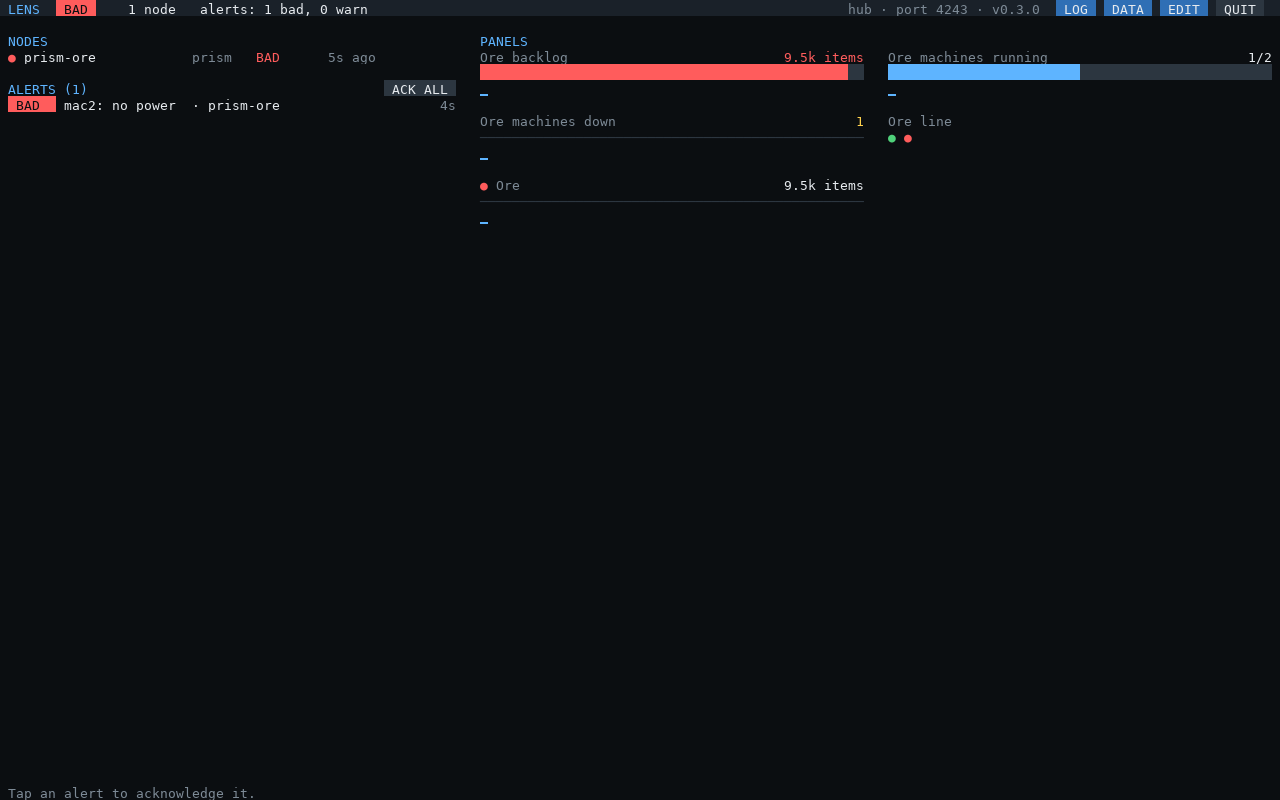
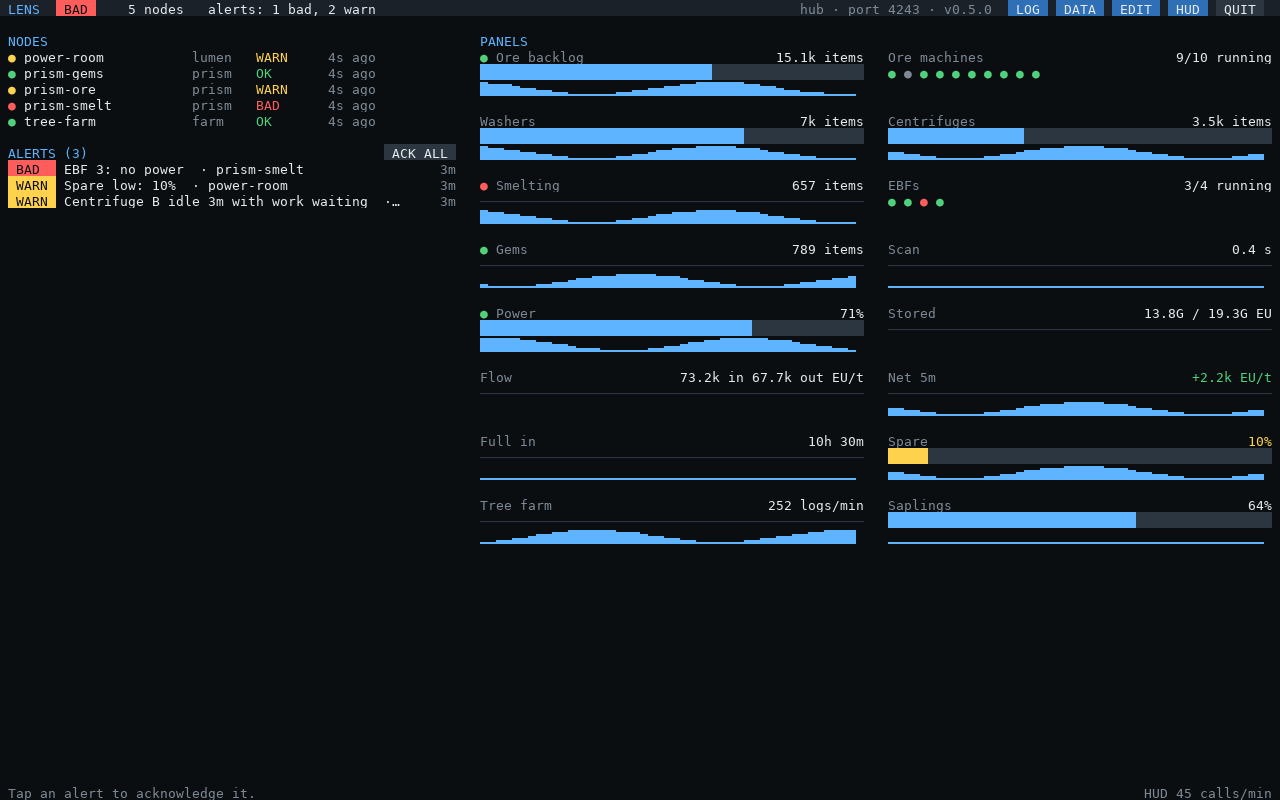
README images from a busy base (test_showcase); keep a HUD block's dots = "left" from lens-hub.cfg
- test_showcase.lua: three PRISM routers, a LUMEN power room and a tree farm
  (your own program) reporting to lens-hub, with readings that drift so the
  sparklines have a shape: a full dashboard with three live alerts, and a HUD
  block with bars, a dot per machine before the label, and alerts.
  make docs-images copies them to dashboard.png and a new hud.png (the
  README's HUD image).
- Fixed: a block's dots = "left" in lens-hub.cfg was dropped when the hub
  made the default HUD (Huds:defaultSettings), so dots stayed on the right
  until the block was changed in the HUD editor. test_showcase checks it.

diff --git a/tests/README.md b/tests/README.md
@@ -29,6 +29,7 @@ Pure modules are tested on their own; features end to end, through `lens-hub` on
 | `test_elements.lua` | What a view can show, through `lens-hub`: state dots, several values in one line, `when`, on the dashboard, in the HUD and in the view editor (tier 2 too) |
 | `test_pages.lua` | The dashboard's pages and the alert log through `lens-hub`: + PAGE named on the keyboard, panels per page, tabs, deleting a page, LOG now and earlier, a 3 × 4 screen |
 | `test_examples.lua` | Every view in `docs/examples.md` as a panel in `lens-hub`, against a PRISM ore line and a LUMEN power room: each shows what the doc says |
+| `test_showcase.lua` | A busy base for the README's images (`make docs-images`): three PRISM routers, LUMEN and your own program, a full dashboard with live alerts, and a HUD block whose `dots = "left"` comes from `lens-hub.cfg` |
 | `test_data.lua` | The DATA page through `lens-hub`: metrics, series, filters, functions, SAVE AS PANEL, ADD TO MY HUD, counters as rates, `editors`, paging, narrow screens |
 | `test_discover.lua` | `lens-discover`: listing, the report file, basics, filtering, `--widgets`, `--events`, `--glasses-test` |
 | `test_setup.lua` | `lens-setup` with scripted answers: finding a PRISM router, its panels and HUD line (as blocks; an old one-corner hud rewritten), the file (loads, comments, `lens-hub` runs it), `.shrc`, re-runs keeping edits, PRISM's port refused, no agents, no network card, no glasses, cancelling, a broken file |

diff --git a/README.md b/README.md
@@ -23,7 +23,7 @@ them, notices when one goes quiet, and shows the base at a glance. Agents today:
   previewed as you type); **DATA** shows everything the agents send and builds queries by tapping.
 - **AR glasses HUD** (OC Glasses): blocks of bars, text lines and the newest alerts, placed anywhere in your
   view. One Glasses Terminal per player gives each their own HUD, changed from the dashboard.
-  ![HUD](docs/images/hud-alerts.png)
+  ![HUD](docs/images/hud.png)
 - **Stale detection**: an agent that stops reporting (crashed, unloaded chunk, out of range) raises an alert.
 - **Queries and rules**: Prometheus-style queries (`sum(prism_machine_state{node="prism-ore", state="running"})`)
   for panels, HUD bars and the hub's own alerts, including ones across systems.

diff --git a/CHANGELOG.md b/CHANGELOG.md
@@ -5,6 +5,10 @@ versions follow [Semantic Versioning](https://semver.org/).
 
 ## [Unreleased]
 
+### Fixed
+- **`dots = "left"` on a HUD block in `lens-hub.cfg`** is kept: it was dropped, so the dots stayed on the
+  right until the block was changed in the HUD editor.
+
 ## [0.5.0] - 2026-11-18
 
 ### Added
